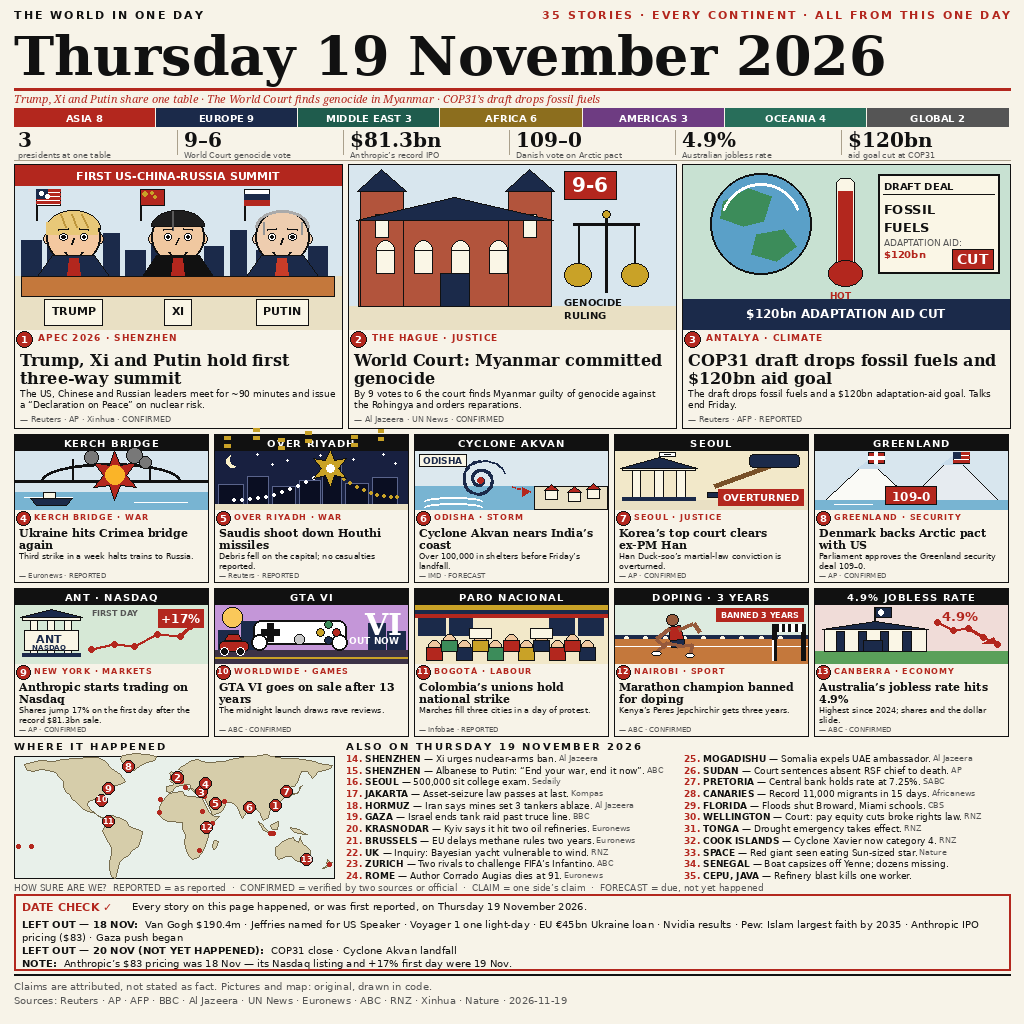
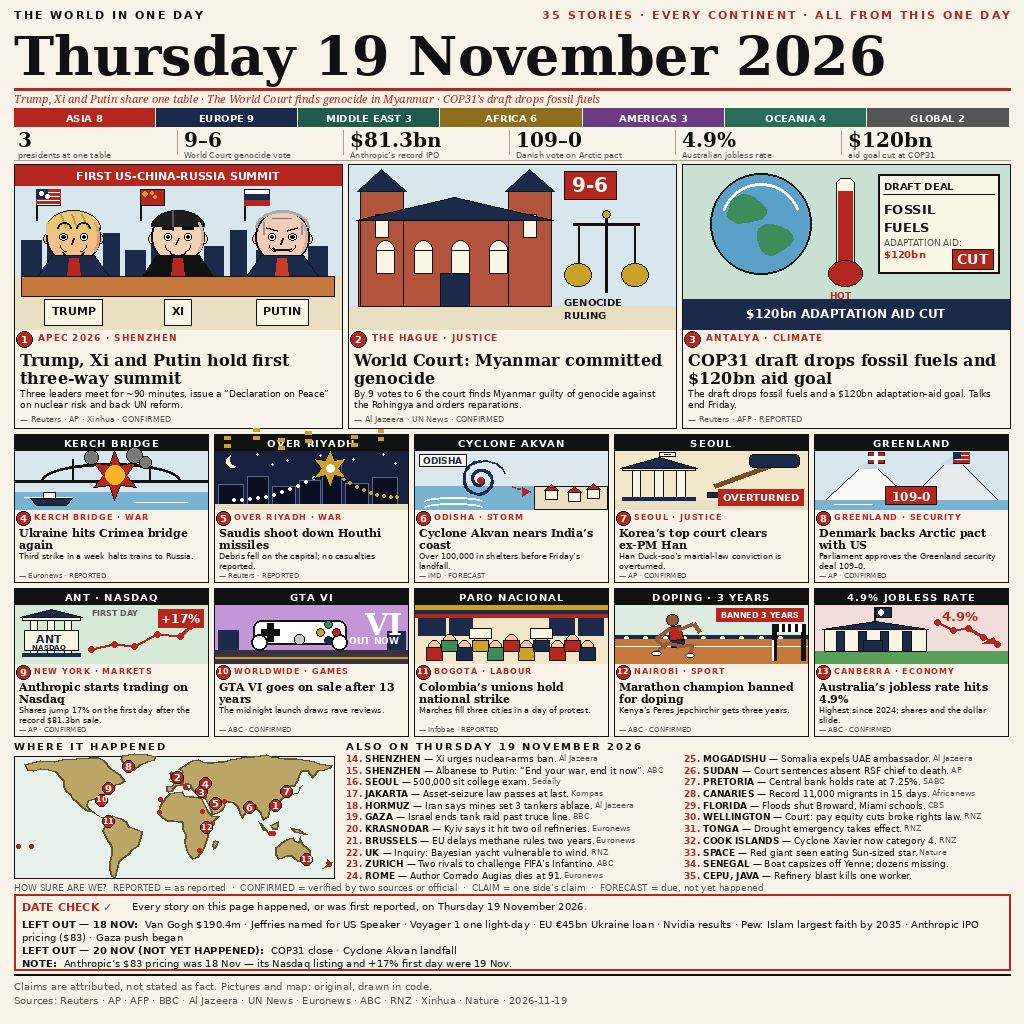
2/3 agent 2 rebuild #4: map contrast, expressive summit faces, sparse GTA panel, smooth globe, UN reform in APEC deck

diff --git a/render.py b/render.py
@@ -1,7 +1,7 @@
 #!/usr/bin/env python3
 """Render entry.png for news-image-20261119 - agent 2, 2/3 (noble-robin-77).
 
-Layout "THE DAY UNFOLDS, corrected" (rebuild #3): the left timeline rail
+Layout "THE DAY UNFOLDS, corrected" (rebuild #4): the left timeline rail
 is GONE - the full width goes to the page. APEC opens at the TOP as three
 big scene panels. Masthead (giant serif date) -> continent count strip ->
 "day in numbers" strip -> 3 hero scene panels -> 10 scene cards (2 rows x
@@ -28,7 +28,7 @@ GOLD = (201, 162, 39)
 GREY = (85, 85, 85)
 TEAL = (31, 92, 77)
 MAP_BG = (232, 240, 234)
-MAP_LAND = (214, 205, 170)
+MAP_LAND = (188, 166, 102)
 SKY = (216, 230, 238)
 CREAM = (250, 246, 230)
 TINTS = [(220, 232, 238), (221, 235, 224), (228, 222, 239),
@@ -220,6 +220,18 @@ def project(lon, lat, mx, my, mw, mh):
 # Faces are simple flat-vector faces (skin circle, hair, eyes, smile) so the
 # three leaders are recognisable people, not blank dots.
 
+def _blob(d, cx, cy, rx, ry, fill, seed=0.0, n=28, wob=0.10):
+    """A smooth organic blob: an ellipse sampled as a many-point polygon
+    with a gentle sinusoidal wobble, so its edge reads as a curve, not
+    as the jagged straight edges of a few-point polygon."""
+    pts = []
+    for i in range(n):
+        a = 2 * math.pi * i / n
+        w = 1 + wob * math.sin(a * 3 + seed)
+        pts.append((cx + rx * w * math.cos(a), cy + ry * w * math.sin(a)))
+    d.polygon(pts, fill=fill)
+
+
 def _face(d, cx, cy, r, skin, hair, hair_style):
     # ears, so the head reads as a person, not a floating blob
     d.ellipse([cx - r - 3, cy - r * 0.1, cx - r + 3, cy + r * 0.25],
@@ -246,11 +258,25 @@ def _face(d, cx, cy, r, skin, hair, hair_style):
         for sx in (-0.7, 0.7):
             d.line([cx + sx * r, cy - r * 0.55, cx + sx * r, cy - r * 0.1],
                    fill=(150, 150, 150), width=2)
-    # eyebrows
-    d.line([cx - r * 0.55, cy - r * 0.28, cx - r * 0.20, cy - r * 0.34],
-           fill=INK, width=2)
-    d.line([cx + r * 0.20, cy - r * 0.34, cx + r * 0.55, cy - r * 0.28],
-           fill=INK, width=2)
+    # eyebrows: distinct per leader, so the three heads do not read alike
+    if hair_style == "blond-side":  # Trump: raised, arched brows
+        d.arc([cx - r * 0.62, cy - r * 0.55, cx - r * 0.10, cy - r * 0.05],
+              180, 360, fill=INK, width=2)
+        d.arc([cx + r * 0.10, cy - r * 0.55, cx + r * 0.62, cy - r * 0.05],
+              180, 360, fill=INK, width=2)
+    elif hair_style == "black-neat":  # Xi: straight, thick, dark brows
+        d.line([cx - r * 0.58, cy - r * 0.33, cx - r * 0.18, cy - r * 0.33],
+               fill=INK, width=3)
+        d.line([cx + r * 0.18, cy - r * 0.33, cx + r * 0.58, cy - r * 0.33],
+               fill=INK, width=3)
+    else:  # Putin: thinner brows, angled slightly down toward the nose
+        d.line([cx - r * 0.58, cy - r * 0.38, cx - r * 0.18, cy - r * 0.26],
+               fill=INK, width=2)
+        d.line([cx + r * 0.18, cy - r * 0.26, cx + r * 0.58, cy - r * 0.38],
+               fill=INK, width=2)
+        # one forehead line (his forehead is bare, unlike the other two)
+        d.line([cx - r * 0.35, cy - r * 0.68, cx + r * 0.35, cy - r * 0.68],
+               fill=(130, 110, 90), width=1)
     # eyes: white with a dark pupil, so the gaze reads
     for ex in (-0.38, 0.38):
         d.ellipse([cx + ex * r - r * 0.14, cy - r * 0.12,
@@ -258,11 +284,33 @@ def _face(d, cx, cy, r, skin, hair, hair_style):
                   fill=(255, 255, 255), outline=INK)
         d.ellipse([cx + ex * r - r * 0.06, cy - r * 0.06,
                    cx + ex * r + r * 0.06, cy + r * 0.06], fill=INK)
-    # nose + smile
+    # nose + cheek shading (a darker skin-tone crescent on the right
+    # cheek gives the flat face some depth) + smile lines + jaw
     d.line([cx, cy + r * 0.05, cx - r * 0.08, cy + r * 0.28], fill=INK,
            width=2)
-    d.arc([cx - r * 0.35, cy + r * 0.25, cx + r * 0.35, cy + r * 0.75],
-          15, 165, fill=INK, width=2)
+    shade = tuple(max(0, c - 30) for c in skin)
+    d.arc([cx + r * 0.20, cy - r * 0.70, cx + r * 0.95, cy + r * 0.70],
+          -55, 55, fill=shade, width=3)
+    d.arc([cx - r * 0.48, cy + r * 0.08, cx - r * 0.04, cy + r * 0.55],
+          90, 180, fill=INK, width=1)
+    d.arc([cx + r * 0.04, cy + r * 0.08, cx + r * 0.48, cy + r * 0.55],
+          0, 90, fill=INK, width=1)
+    d.arc([cx - r * 0.45, cy + r * 0.35, cx + r * 0.45, cy + r * 0.95],
+          20, 160, fill=INK, width=1)
+    # mouth: distinct per leader (wide grin / small smile / flat line)
+    if hair_style == "blond-side":
+        d.arc([cx - r * 0.40, cy + r * 0.22, cx + r * 0.40, cy + r * 0.78],
+              10, 170, fill=INK, width=2)
+    elif hair_style == "black-neat":
+        d.arc([cx - r * 0.30, cy + r * 0.30, cx + r * 0.30, cy + r * 0.72],
+              20, 160, fill=INK, width=2)
+    else:
+        d.line([cx - r * 0.28, cy + r * 0.48, cx + r * 0.28, cy + r * 0.48],
+               fill=INK, width=2)
+        d.line([cx - r * 0.28, cy + r * 0.48, cx - r * 0.34, cy + r * 0.42],
+               fill=INK, width=2)
+        d.line([cx + r * 0.28, cy + r * 0.48, cx + r * 0.34, cy + r * 0.42],
+               fill=INK, width=2)
 
 
 def ill_apec(d, x, y, w, h):
@@ -289,9 +337,9 @@ def ill_apec(d, x, y, w, h):
                      y + h * 0.68], fill=NAVY)
     d.rectangle([x, y + h * 0.68, x + w, y + h], fill=(233, 224, 196))
     leaders = [
-        (0.18, (244, 200, 160), "blond-side", NAVY, RED, "TRUMP", "us"),
-        (0.50, (240, 200, 160), "black-neat", INK, RED, "XI", "cn"),
-        (0.82, (238, 205, 175), "grey", NAVY, (200, 60, 40), "PUTIN", "ru"),
+        (0.18, (246, 192, 138), "blond-side", NAVY, RED, "TRUMP", "us"),
+        (0.50, (243, 210, 182), "black-neat", INK, RED, "XI", "cn"),
+        (0.82, (240, 204, 186), "grey", NAVY, (200, 60, 40), "PUTIN", "ru"),
     ]
     for fx, skin, hair, suit, tie, name, flag in leaders:
         cx = x + fx * w
@@ -409,19 +457,15 @@ def ill_cop(d, x, y, w, h):
     bottom carrying the aid figure.
     """
     d.rectangle([x, y, x + w, y + h], fill=(200, 225, 210))
-    # globe, left - big, smooth: solid blue disc, two solid green land
-    # masses drawn as polygons (no dither, no speckled texture)
+    # globe, left - big, smooth: solid blue disc, two smooth green land
+    # blobs (many-point curves, no jagged polygon edges, no dither)
     cx, cy, r = x + w * 0.24, y + h * 0.36, w * 0.155
     d.ellipse([cx - r, cy - r, cx + r, cy + r], fill=(90, 160, 200),
               outline=INK, width=2)
-    d.polygon([(cx - r * 0.75, cy - r * 0.45), (cx - r * 0.25, cy - r * 0.70),
-               (cx + r * 0.20, cy - r * 0.55), (cx + r * 0.05, cy - r * 0.05),
-               (cx - r * 0.35, cy + r * 0.05), (cx - r * 0.80, cy - r * 0.10)],
-              fill=(60, 140, 90))
-    d.polygon([(cx - r * 0.10, cy + r * 0.20), (cx + r * 0.45, cy + r * 0.10),
-               (cx + r * 0.70, cy + r * 0.45), (cx + r * 0.30, cy + r * 0.75),
-               (cx - r * 0.20, cy + r * 0.60)],
-              fill=(60, 140, 90))
+    _blob(d, cx - r * 0.30, cy - r * 0.28, r * 0.38, r * 0.28,
+          (60, 140, 90), seed=0.7)
+    _blob(d, cx + r * 0.25, cy + r * 0.30, r * 0.35, r * 0.30,
+          (60, 140, 90), seed=2.1)
     d.arc([cx - r * 0.8, cy - r * 0.8, cx + r * 0.8, cy + r * 0.8], 200, 340,
           fill=(255, 255, 255), width=3)
     # thermometer, middle - tall, red mercury near the top
@@ -740,17 +784,14 @@ def ill_anthropic(d, x, y, w, h):
 
 
 def ill_gta(d, x, y, w, h):
-    """GTA VI: a purple dusk city skyline, a sunset, a BIG white game
-    controller front and centre (so the card reads as a video game at
-    a glance), a big VI logo top-right with OUT NOW under it, and a
-    small red car on the street below. No STRIKE label anywhere."""
+    """GTA VI: a purple dusk city, a BIG white game controller front and
+    centre (so the card reads as a video game at a glance), a big VI
+    logo top-right with OUT NOW under it. Deliberately sparse: no car,
+    no sunset, only two skyline silhouettes, so nothing crowds the
+    controller. No STRIKE label anywhere."""
     d.rectangle([x, y, x + w, y + h], fill=(196, 150, 216))
-    # sunset, top-left corner - clear of the VI logo on the right
-    d.ellipse([x + w * 0.04, y + h * 0.04, x + w * 0.04 + 20,
-               y + h * 0.04 + 20], fill=(250, 200, 90), outline=INK)
-    # skyline silhouettes on both sides
-    for bx, bw, bh in [(0.02, 0.10, 0.34), (0.14, 0.09, 0.50),
-                       (0.80, 0.09, 0.46), (0.90, 0.09, 0.32)]:
+    # two skyline silhouettes, far left and far right only
+    for bx, bw, bh in [(0.02, 0.10, 0.34), (0.90, 0.09, 0.32)]:
         d.rectangle([x + bx * w, y + h * 0.78 - bh * h, x + (bx + bw) * w,
                      y + h * 0.78], fill=NAVY)
         for wy in (0.78 - bh * h + 0.06, 0.78 - bh * h + 0.14):
@@ -783,17 +824,6 @@ def ill_gta(d, x, y, w, h):
     for sx in (gx0 + w * 0.24, gx1 - w * 0.24):
         d.ellipse([sx - 5, (gy0 + gy1) / 2 + 2, sx + 5,
                    (gy0 + gy1) / 2 + 12], fill=(200, 200, 200), outline=INK)
-    # small red car, side view, bottom-left on the street - kept clear
-    # of the controller's left grip (car ends at 0.17w, grip starts 0.20w)
-    cx0, cy = x + w * 0.02, y + h * 0.72
-    d.rounded_rectangle([cx0, cy - 6, cx0 + w * 0.15, cy + 4], radius=4,
-                        fill=RED, outline=INK)
-    d.polygon([(cx0 + w * 0.03, cy - 6), (cx0 + w * 0.05, cy - 12),
-               (cx0 + w * 0.10, cy - 12), (cx0 + w * 0.12, cy - 6)],
-              fill=RED, outline=INK)
-    for wx in (0.03, 0.115):
-        d.ellipse([cx0 + wx * w - 4, cy + 1, cx0 + wx * w + 4, cy + 9],
-                  fill=INK, outline=(255, 255, 255))
     # big VI logo, top right, with OUT NOW below it - clear of the
     # controller (controller top is 0.26h, VI ends well above it)
     d.text((x + w * 0.78, y + h * 0.01), "VI", font=serif_b(30),
@@ -974,8 +1004,8 @@ BANNERS = {4: "KERCH BRIDGE", 5: "OVER RIYADH", 6: "CYCLONE AKVAN",
 HERO = [
     (1, "APEC 2026 · SHENZHEN",
      "Trump, Xi and Putin hold first three-way summit",
-     "The US, Chinese and Russian leaders meet for ~90 minutes and issue "
-     "a \u201cDeclaration on Peace\u201d on nuclear risk.",
+     "Three leaders meet for ~90 minutes, issue a \u201cDeclaration on "
+     "Peace\u201d on nuclear risk and back UN reform.",
      "Reuters · AP · Xinhua", "CONFIRMED", "apec"),
     (2, "THE HAGUE · JUSTICE",
      "World Court: Myanmar committed genocide",
@@ -1232,7 +1262,7 @@ def draw_map_briefs(d):
     d.rectangle([mx, my, mx + mw, my + mh], fill=MAP_BG, outline=INK)
     for poly in POLYS:
         pts = [project(lon, lat, mx, my, mw, mh) for lon, lat in poly]
-        d.polygon(pts, fill=MAP_LAND, outline=(120, 110, 80))
+        d.polygon(pts, fill=MAP_LAND, outline=(96, 84, 52), width=2)
     for _num, lon, lat in DOTS:
         px, py = project(lon, lat, mx, my, mw, mh)
         d.ellipse([px - 2, py - 2, px + 2, py + 2], fill=RED)
